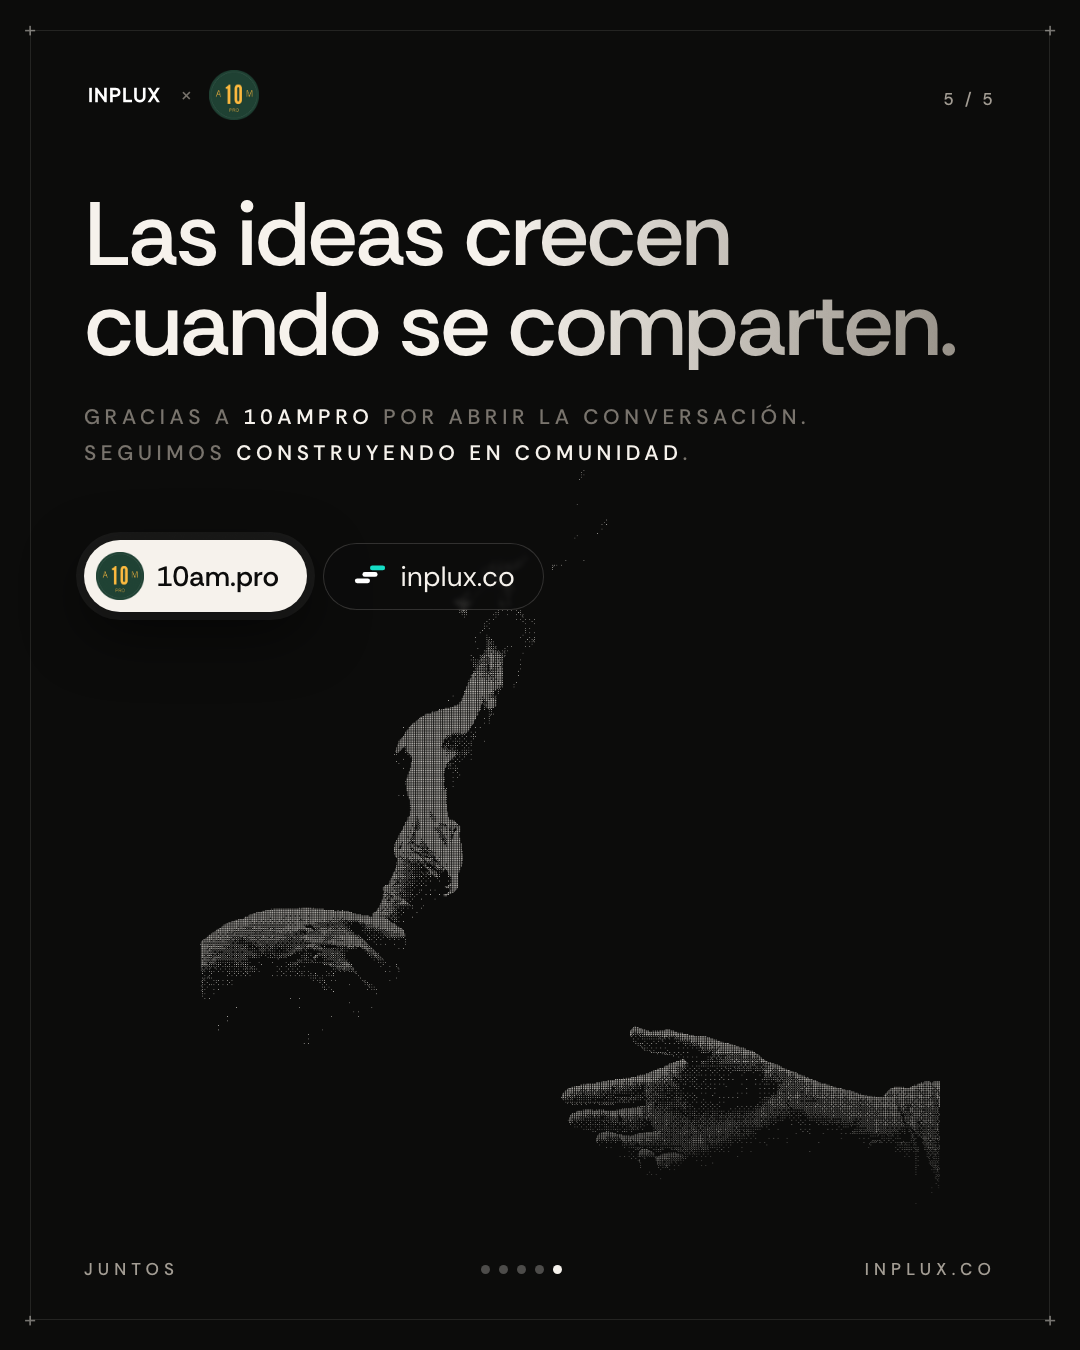
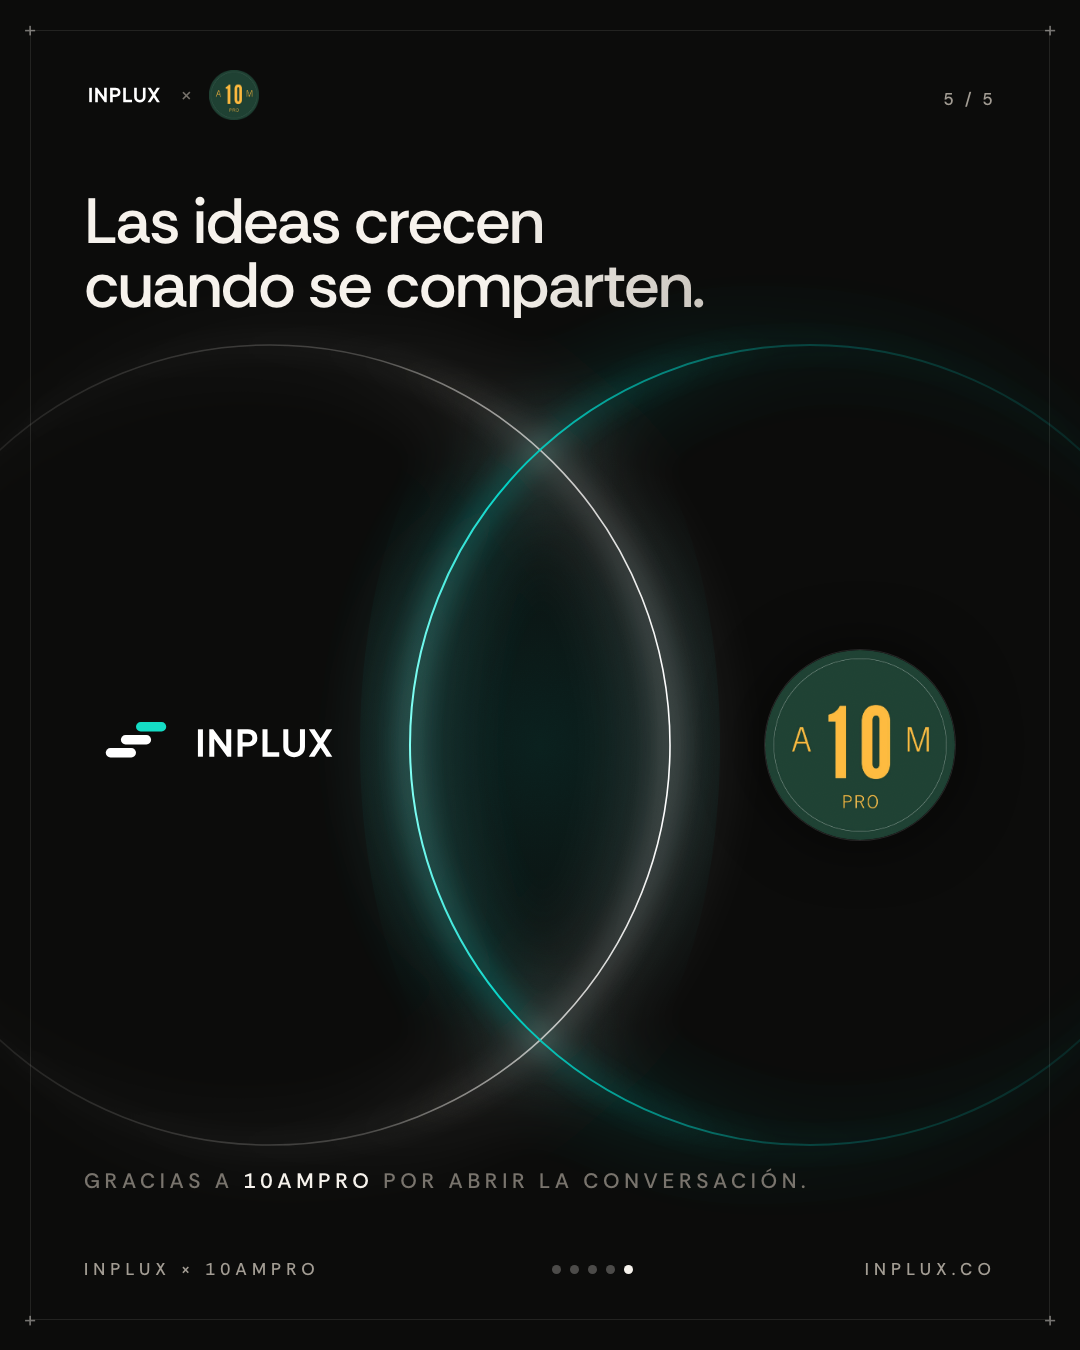
feat(instagram): cierre INPLUX × 10ampro con dos círculos que se cruzan (eclipse estilo Croma × Platam)

diff --git a/brand/instagram/dia-d-reglas/reglas10am_05_cierre.html b/brand/instagram/dia-d-reglas/reglas10am_05_cierre.html
@@ -23,17 +23,37 @@ body{font-family:"Rethink Sans",sans-serif;color:#f6f2ec;-webkit-font-smoothing:
   box-shadow:0 0 0 14px rgba(0,215,202,.05),0 0 80px rgba(0,215,202,.18)}
 .tallo{width:1.5px;background:rgba(246,242,236,.16);margin:0 auto}
 .tarjeta{background:#f6f2ec;color:#0c0c0b;border-radius:14px;display:flex;justify-content:space-between;align-items:center;padding:30px 36px}
-</style></head><body><div class="lienzo"><img class="trama" src="trama/antorcha.png" style="left:200px;top:470px;width:740px;opacity:0.75;-webkit-mask-image:none;mask-image:none"><div style="position:absolute;inset:0;background:linear-gradient(180deg,#0c0c0b 0%,rgba(12,12,11,.85) 14%,rgba(12,12,11,.25) 30%,transparent 45%,transparent 80%,rgba(12,12,11,.9) 92%,#0c0c0b 100%)"></div><div style="position:absolute;left:84px;right:84px;top:190px">
-  <h1 class="titular" style="font-size:90px">Las ideas crecen<br>cuando se comparten.</h1>
-  <p class="sub" style="margin-top:30px;max-width:860px">Gracias a <b>10ampro</b> por abrir la conversación. Seguimos <b>construyendo en comunidad</b>.</p>
+</style></head><body><div class="lienzo"><svg width="1080" height="1350" viewBox="0 0 1080 1350" style="position:absolute;inset:0">
+  <defs>
+    <linearGradient id="gi" gradientUnits="userSpaceOnUse" x1="-130" y1="0" x2="670" y2="0">
+      <stop offset="0" stop-color="#f6f2ec" stop-opacity=".04"/><stop offset=".62" stop-color="#f6f2ec" stop-opacity=".22"/>
+      <stop offset="1" stop-color="#ffffff" stop-opacity="1"/></linearGradient>
+    <linearGradient id="gd" gradientUnits="userSpaceOnUse" x1="410" y1="0" x2="1210" y2="0">
+      <stop offset="0" stop-color="#7ffff4" stop-opacity="1"/><stop offset=".12" stop-color="#00d7ca" stop-opacity=".95"/>
+      <stop offset=".45" stop-color="#00d7ca" stop-opacity=".25"/><stop offset="1" stop-color="#00d7ca" stop-opacity=".05"/></linearGradient>
+    <filter id="halo" x="-20%" y="-20%" width="140%" height="140%"><feGaussianBlur stdDeviation="14"/></filter>
+    <filter id="halo2" x="-20%" y="-20%" width="140%" height="140%"><feGaussianBlur stdDeviation="40"/></filter>
+    <radialGradient id="lente" cx="540" cy="745" r="300.0" gradientUnits="userSpaceOnUse">
+      <stop offset="0" stop-color="#00d7ca" stop-opacity=".10"/><stop offset="1" stop-color="#00d7ca" stop-opacity="0"/></radialGradient>
+  </defs>
+  <ellipse cx="540" cy="745" rx="180.0" ry="380.0" fill="url(#lente)"/>
+  <g filter="url(#halo2)" opacity=".9"><circle cx="270" cy="745" r="400" fill="none" stroke="url(#gi)" stroke-width="10"/><circle cx="810" cy="745" r="400" fill="none" stroke="url(#gd)" stroke-width="12"/></g>
+  <g filter="url(#halo)" opacity=".9"><circle cx="270" cy="745" r="400" fill="none" stroke="url(#gi)" stroke-width="4"/><circle cx="810" cy="745" r="400" fill="none" stroke="url(#gd)" stroke-width="5"/></g>
+  <circle cx="270" cy="745" r="400" fill="none" stroke="url(#gi)" stroke-width="1.6"/><circle cx="810" cy="745" r="400" fill="none" stroke="url(#gd)" stroke-width="2"/>
+</svg>
+<div style="position:absolute;left:84px;right:84px;top:190px">
+  <h1 class="titular" style="font-size:64px">Las ideas crecen<br>cuando se comparten.</h1>
 </div>
-<div style="position:absolute;left:84px;top:540px;display:flex;gap:16px;align-items:center">
-  <span class="pill clara" style="font-size:28px;padding:12px 28px 12px 12px"><img src="assets/10ampro.png" style="width:48px;height:48px">10am.pro</span>
-  <span class="pill oscura" style="font-size:28px;padding:14px 28px"><svg viewBox="0 0 100 100" width="36" height="36"><rect x="8" y="57" width="42" height="13" rx="6.5" fill="#fff"/><rect x="29" y="39" width="42" height="13" rx="6.5" fill="#fff"/><rect x="50" y="21" width="42" height="13" rx="6.5" fill="#15dcc4"/></svg>inplux.co</span>
+<div style="position:absolute;left:50px;width:340px;top:707px;display:flex;justify-content:center;align-items:center;gap:16px">
+  <svg viewBox="0 0 100 100" width="72" height="72"><rect x="8" y="57" width="42" height="13" rx="6.5" fill="#fff"/><rect x="29" y="39" width="42" height="13" rx="6.5" fill="#fff"/><rect x="50" y="21" width="42" height="13" rx="6.5" fill="#15dcc4"/></svg><img src="assets/wordmark-white.svg" style="height:42px;display:block"></div>
+<div style="position:absolute;left:690px;width:340px;top:650px;display:flex;justify-content:center">
+  <img src="assets/10ampro.png" style="width:190px;height:190px;display:block;box-shadow:0 0 0 1px rgba(246,242,236,.12),0 0 60px rgba(0,0,0,.6);border-radius:50%"></div>
+<div style="position:absolute;left:84px;right:84px;bottom:150px;display:flex;justify-content:space-between;align-items:center">
+  <span class="sub">Gracias a <b>10ampro</b> por abrir la conversación.</span>
 </div>
 <div class="grano"></div><div class="marco"></div><div class="cruz" style="top:21px;left:21px">+</div><div class="cruz" style="top:21px;right:21px">+</div><div class="cruz" style="bottom:21px;left:21px">+</div><div class="cruz" style="bottom:21px;right:21px">+</div>
 <div style="position:absolute;left:84px;top:70px"><div style="display:flex;align-items:center;gap:16px"><img src="assets/wordmark-white.svg" style="height:22px;display:block"><span style="color:#77726b;font-size:22px;line-height:1">×</span><img src="assets/10ampro.png" style="height:50px;width:50px;display:block"></div></div>
 <div class="micro" style="position:absolute;right:84px;top:88px;letter-spacing:.2em">5 / 5</div>
 <div style="position:absolute;left:84px;right:84px;bottom:70px;display:flex;align-items:center;justify-content:space-between">
-  <div class="micro">Juntos</div><div style="display:flex;gap:9px"><i style="width:9px;height:9px;border-radius:50%;background:rgba(246,242,236,.28)"></i><i style="width:9px;height:9px;border-radius:50%;background:rgba(246,242,236,.28)"></i><i style="width:9px;height:9px;border-radius:50%;background:rgba(246,242,236,.28)"></i><i style="width:9px;height:9px;border-radius:50%;background:rgba(246,242,236,.28)"></i><i style="width:9px;height:9px;border-radius:50%;background:#f6f2ec"></i></div><div class="micro">INPLUX.CO</div>
+  <div class="micro">INPLUX × 10AMPRO</div><div style="display:flex;gap:9px"><i style="width:9px;height:9px;border-radius:50%;background:rgba(246,242,236,.28)"></i><i style="width:9px;height:9px;border-radius:50%;background:rgba(246,242,236,.28)"></i><i style="width:9px;height:9px;border-radius:50%;background:rgba(246,242,236,.28)"></i><i style="width:9px;height:9px;border-radius:50%;background:rgba(246,242,236,.28)"></i><i style="width:9px;height:9px;border-radius:50%;background:#f6f2ec"></i></div><div class="micro">INPLUX.CO</div>
 </div></div></body></html>

diff --git a/brand/instagram/dia-d-reglas/build.py b/brand/instagram/dia-d-reglas/build.py
@@ -146,15 +146,46 @@ def d_network():
             f'<span class="pill clara">La gente correcta <span style="color:#007a72">→</span></span>')
 
 
+def eclipse(cy=700, r=400, dx=270):
+    """Dos círculos que se cruzan con el borde iluminado hacia la intersección (cierre de Croma × Platam).
+    Izquierdo en marfil (INPLUX), derecho en teal; el brillo vive en los arcos interiores."""
+    cx1, cx2 = 540 - dx, 540 + dx
+    aro = lambda cx, grad, w: f'<circle cx="{cx}" cy="{cy}" r="{r}" fill="none" stroke="url(#{grad})" stroke-width="{w}"/>'
+    return f"""<svg width="1080" height="1350" viewBox="0 0 1080 1350" style="position:absolute;inset:0">
+  <defs>
+    <linearGradient id="gi" gradientUnits="userSpaceOnUse" x1="{cx1 - r}" y1="0" x2="{cx1 + r}" y2="0">
+      <stop offset="0" stop-color="{IVORY}" stop-opacity=".04"/><stop offset=".62" stop-color="{IVORY}" stop-opacity=".22"/>
+      <stop offset="1" stop-color="#ffffff" stop-opacity="1"/></linearGradient>
+    <linearGradient id="gd" gradientUnits="userSpaceOnUse" x1="{cx2 - r}" y1="0" x2="{cx2 + r}" y2="0">
+      <stop offset="0" stop-color="#7ffff4" stop-opacity="1"/><stop offset=".12" stop-color="{TEAL}" stop-opacity=".95"/>
+      <stop offset=".45" stop-color="{TEAL}" stop-opacity=".25"/><stop offset="1" stop-color="{TEAL}" stop-opacity=".05"/></linearGradient>
+    <filter id="halo" x="-20%" y="-20%" width="140%" height="140%"><feGaussianBlur stdDeviation="14"/></filter>
+    <filter id="halo2" x="-20%" y="-20%" width="140%" height="140%"><feGaussianBlur stdDeviation="40"/></filter>
+    <radialGradient id="lente" cx="540" cy="{cy}" r="{r*0.75}" gradientUnits="userSpaceOnUse">
+      <stop offset="0" stop-color="{TEAL}" stop-opacity=".10"/><stop offset="1" stop-color="{TEAL}" stop-opacity="0"/></radialGradient>
+  </defs>
+  <ellipse cx="540" cy="{cy}" rx="{r*0.45}" ry="{r*0.95}" fill="url(#lente)"/>
+  <g filter="url(#halo2)" opacity=".9">{aro(cx1, "gi", 10)}{aro(cx2, "gd", 12)}</g>
+  <g filter="url(#halo)" opacity=".9">{aro(cx1, "gi", 4)}{aro(cx2, "gd", 5)}</g>
+  {aro(cx1, "gi", 1.6)}{aro(cx2, "gd", 2)}
+</svg>"""
+
+
 def cierre():
-    return head() + trama("antorcha", 200, 470, 740, opacidad=.75) + encabezado(
-        "Las ideas crecen<br>cuando se comparten.",
-        "Gracias a <b>10ampro</b> por abrir la conversación. Seguimos <b>construyendo en comunidad</b>.", 90) + f"""
-<div style="position:absolute;left:84px;top:540px;display:flex;gap:16px;align-items:center">
-  <span class="pill clara" style="font-size:28px;padding:12px 28px 12px 12px"><img src="assets/10ampro.png" style="width:48px;height:48px">10am.pro</span>
-  <span class="pill oscura" style="font-size:28px;padding:14px 28px">{MARCA.format(s=36)}inplux.co</span>
+    cy = 745
+    # zona propia de cada círculo (fuera de la lente): izquierda 0–400 px, derecha 680–1080 px
+    return head() + eclipse(cy) + f"""
+<div style="position:absolute;left:84px;right:84px;top:190px">
+  <h1 class="titular" style="font-size:64px">Las ideas crecen<br>cuando se comparten.</h1>
 </div>
-""" + marco(5, "Juntos") + "</div></body></html>"
+<div style="position:absolute;left:50px;width:340px;top:{cy - 38}px;display:flex;justify-content:center;align-items:center;gap:16px">
+  {MARCA.format(s=72)}<img src="assets/wordmark-white.svg" style="height:42px;display:block"></div>
+<div style="position:absolute;left:690px;width:340px;top:{cy - 95}px;display:flex;justify-content:center">
+  <img src="assets/10ampro.png" style="width:190px;height:190px;display:block;box-shadow:0 0 0 1px rgba(246,242,236,.12),0 0 60px rgba(0,0,0,.6);border-radius:50%"></div>
+<div style="position:absolute;left:84px;right:84px;bottom:150px;display:flex;justify-content:space-between;align-items:center">
+  <span class="sub">Gracias a <b>10ampro</b> por abrir la conversación.</span>
+</div>
+""" + marco(5, "INPLUX × 10AMPRO") + "</div></body></html>"
 
 
 PIEZAS = {

diff --git a/brand/instagram/dia-d-reglas/CAPTIONS.md b/brand/instagram/dia-d-reglas/CAPTIONS.md
@@ -22,4 +22,4 @@ Colaborador: @10ampro
 **Alt 2:** Estatua de un orador romano en trama de puntos. Texto: «Open Source Capital. Compartir tesis y aprendizajes en vez de guardarlos». Diagrama: una tesis pasa por el logo de 10ampro y se abre a founders, inversionistas, operadores y builders.
 **Alt 3:** Senadores romanos en trama de puntos. Texto: «Collective Intelligence. La sincronización de personas inteligentes en un mismo lugar». Diagrama: una pregunta, un dato, una duda y una apuesta convergen en el logo de 10ampro y llegan a «Un mismo lugar».
 **Alt 4:** Manos de mármol entrelazadas en trama de puntos. Texto: «Network Sharing. Activar las redes propias para acelerar a la gente correcta». Diagrama: «Tu red» pasa por el logo de 10ampro hasta «La gente correcta».
-**Alt 5:** Una mano pasa una antorcha encendida a otra, en trama de puntos. Texto: «Las ideas crecen cuando se comparten. Gracias a 10ampro por abrir la conversación». Botones 10am.pro e inplux.co.
+**Alt 5:** Dos círculos grandes que se cruzan sobre negro, con el borde iluminado en blanco y teal hacia la intersección. En uno el logo de INPLUX, en el otro el de 10ampro. Texto: «Las ideas crecen cuando se comparten. Gracias a 10ampro por abrir la conversación».
